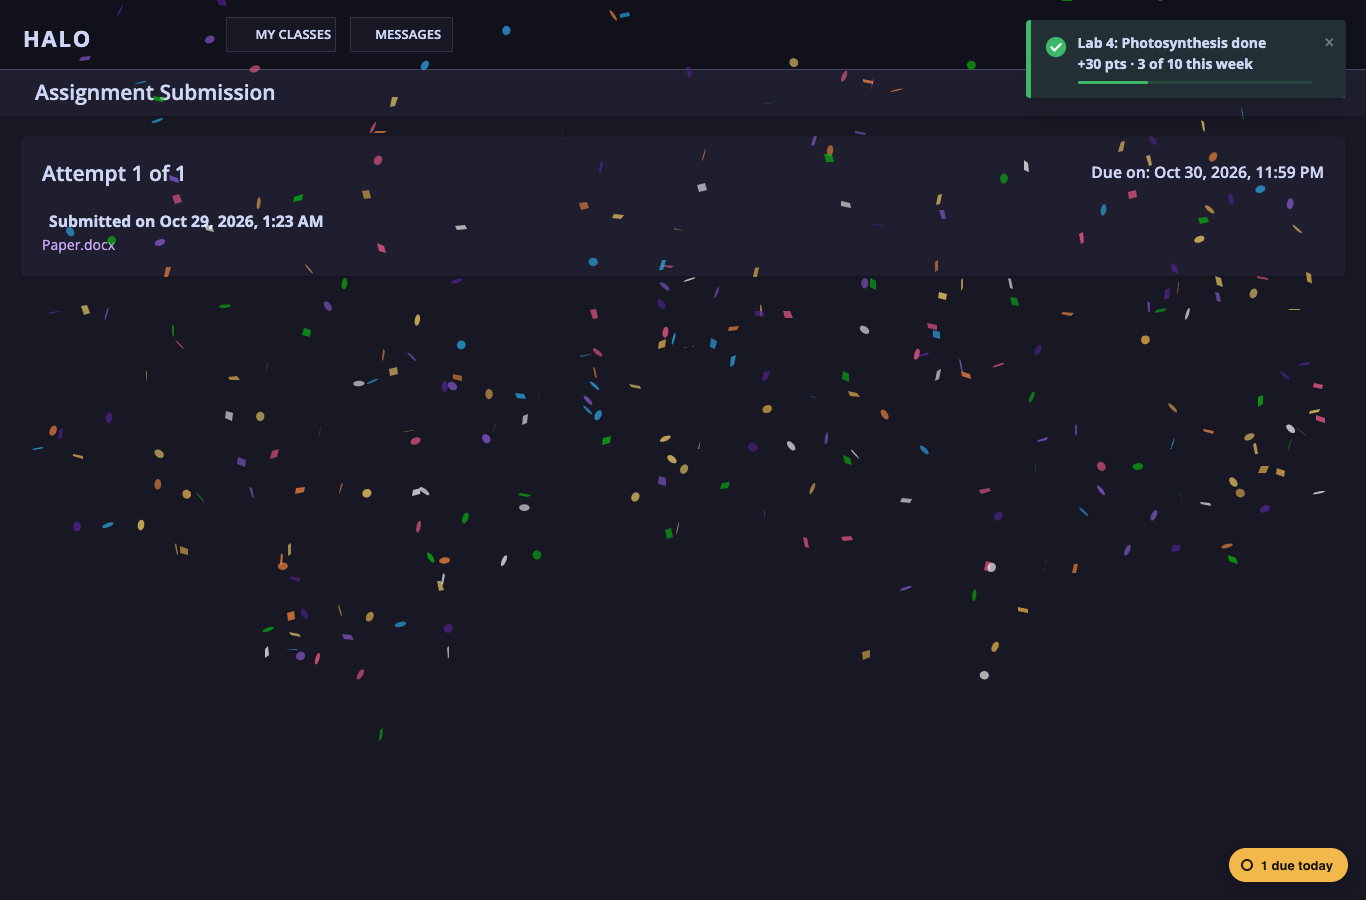
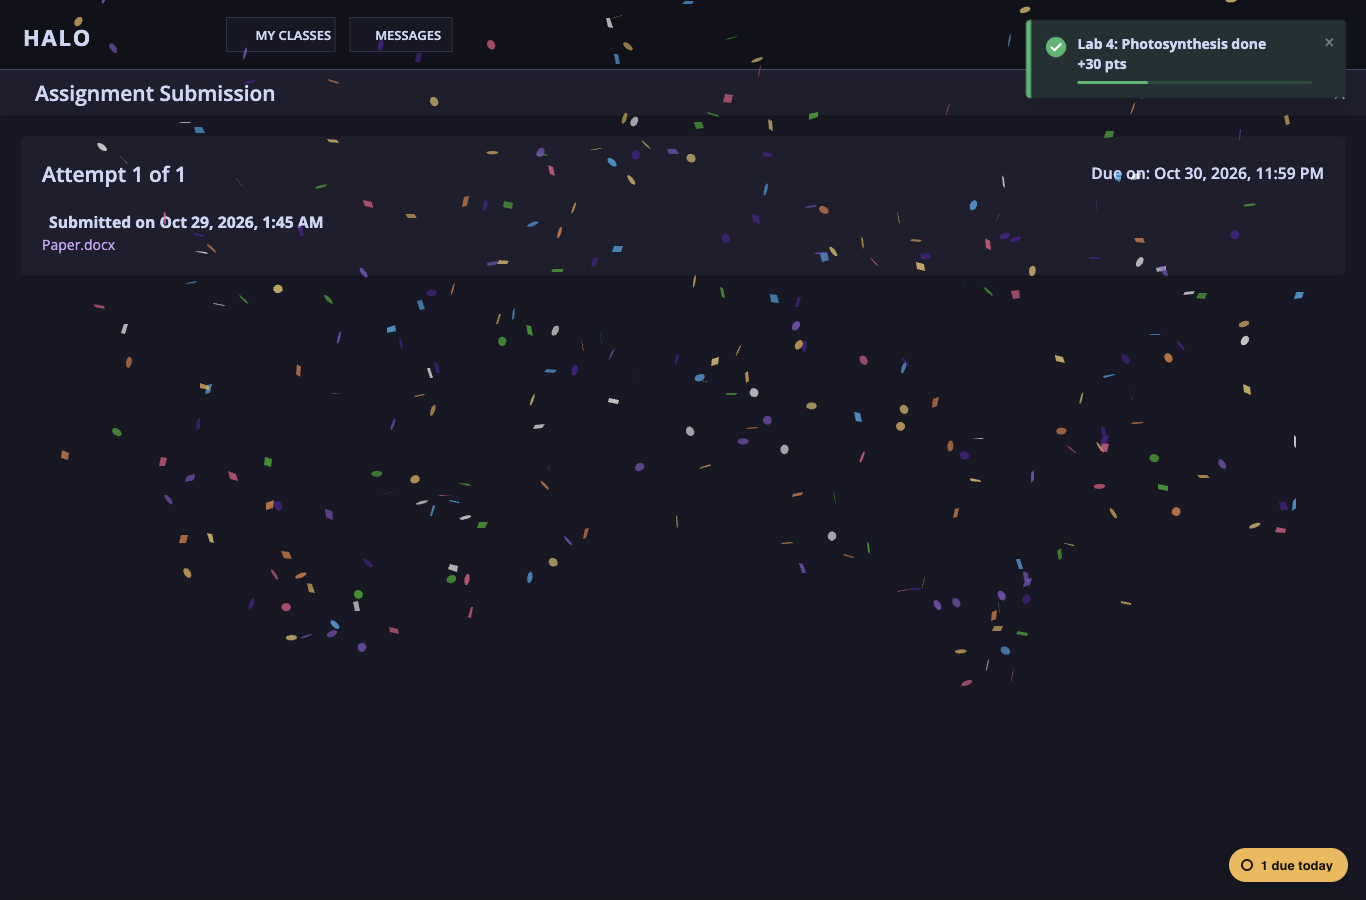
Loop 282: extension 0.12.11 (zip built, not submitted): the submit toast is the item, +30 pts and the week's bar, without the 'N of M this week' words; check-off test passing in Chrome and Edge

diff --git a/extension/celebrate.js b/extension/celebrate.js
@@ -12,8 +12,8 @@
 // 0.12.10 (George on real Halo: the white card and the pill stacked in the corner were "boxy and not like Halo"; "make
 // the celebration BIG"): on Halo, the moment is one toast built the way Halo builds its own (Halo's success toast:
 // its colours from Halo's own variables, its 5 px bar on the left, 4 px corners, shadow, font and size), under Halo's own
-// "Assignment has been submitted." in the same corner: "✓ Lab 4: Photosynthesis done", "+30 pts · 3 of 11 this week",
-// a thin bar inside; short, then it fades. With it, multi-coloured confetti bursting from both sides of the window
+// "Assignment has been submitted." in the same corner: "✓ Lab 4: Photosynthesis done", "+30 pts", a thin bar inside
+// filling to this week's new mark (0.12.11: no words for the week, the bar says it); short, then it fades. With it, multi-coloured confetti bursting from both sides of the window
 // (canvas-confetti, in the extension: vendor/canvas-confetti.js, never fetched), gravity, spin, flutter and drift, about
 // four seconds and gone; a bigger one when the week is done. Never in the way of a click (the layer takes none). The
 // Celebrations switch off, or the computer's "reduce motion": the toast only. Without `opts.toast` (Admin's preview)
@@ -301,8 +301,8 @@
       p.textContent = `+${still ? pts : 0} pts`;
       sub.append(p);
     }
-    const tail = all ? 'Week done' : w ? `${w.done} of ${w.total} this week` : pts ? '' : text || '';
-    if (tail) sub.append(document.createTextNode(`${pts ? ' · ' : ''}${tail}`));
+    // The title, the points and the bar (0.12.11, George: no "3 of 10 this week" words; the bar says it).
+    if (!pts && !w && text) sub.append(document.createTextNode(text));
     m.append(strong, sub);
     if (w) {
       const bar = document.createElement('span');

diff --git a/LOOP_LOG.md b/LOOP_LOG.md
@@ -375,3 +375,4 @@ One line per change, newest last. Proposals that need George's approval are mark
 
 - Loop 281 (2026-10-29): the AI server locked down, deployed and verified live (George, first of his decisions on the pricing report: "Fixed server-built jobs only, input caps, per-user rate limits, and stream mode counted against the budget. Deploy and verify it live"). Before: the AI function sent Anthropic whatever request the browser built, so any Max or trial account could use it as a general chatbot (any instructions, a conversation, its own tools, Anthropic's server tools), stream mode skipped the meter, parallel calls all passed the monthly ceiling, and transcription counted the seconds the browser claimed. Now: (1) a registry of Halo+'s 17 AI jobs (src/ai/jobs.ts: each job's own instructions and its one tool, the constants its code already uses, with its input caps; generated into supabase/functions/_shared/aiJobs.ts by scripts/sync-ai-jobs.ts, run by `npm run build`; src/ai/jobs.test.ts fails when they differ, so a prompt cannot change in the app alone). (2) The AI function checks every request against it and builds the call to the model itself (src/ai/jobRules.ts checkJob, shared with the function): the job's own instructions at their place, word for word, the job's own tool (compared in full) forced, one user message, the student's material in at most the job's number of context blocks, each within its size cap; the call is rebuilt from the server's copy, so nothing else of the browser's goes through (no stream, no other tools, no metadata, no MCP servers, no sampling settings, the output capped per kind). Ask's kinds ('coach', 'tutor') answer 410 "Ask has been retired." (3) Per-student limits per kind, per minute and per day (RATE in jobRules.ts; announcement reading 60 a minute since one post can take three calls and a first sync reads many, the syllabus and links passes a few), and the monthly ceiling, admitted atomically under a lock per student (migration 0047 ai_admit: counts this minute and today, adds the month's spend and the most this call could cost, holds that amount in the usage log; the function writes the real cost into the row after the call, or removes it when the model did not answer). (4) Free's budget $0.05 a month (was $0.10) for its one job, the locked heads-up's check (George: kept on Free with its cap and rate limit, 20 a minute, 100 a day). (5) Transcription counts the audio's own length (the 16 kHz mono 16-bit WAV pieces the app sends, data bytes over 32,000 a second); anything else is refused; the x-seconds header is no longer read.
   Deployed: migration 0047 (supabase db push), functions ai and transcribe. Verified live (scripts/e2e-ai-lockdown.ts, two throwaway accounts, removed after; about a cent of model calls): the app's own brief call works and is logged at its real cost; refused before any model call and with nothing logged: Ask, its own instructions, the job's instructions plus its own, a tool of its own, the job's tool reshaped, web search, a conversation, no forced tool, input over the cap, a job under another kind; stream mode answered as one ordinary JSON answer and counted; 6 calls at once with 3 a minute allowed: exactly 3 answered, 3 told to try again in a minute; no held amount left behind; Free's heads-up check works, a Max job refused (402), and at $0.05 the next check waits (429 ceiling); transcription: non-audio refused (415), 3 seconds said to be 1 counted as 3. scripts/live-check.mjs: every function reachable. Unit 1287, lint, typecheck. The app's other jobs (announcement reading, syllabus passes, practice, lecture notes, Check my work) send exactly the shape the registry holds (built by callTool from the same constants).
+- Loop 282 (2026-10-29): extension 0.12.11 (zip built, NOT submitted): the submit toast without the "3 of 10 this week" words (George: keep the title, "+30 pts" and the progress bar); built as 0.12.11 so no two different 0.12.10 zips exist. Only celebrate.js and the manifest differ from 0.12.10 (zips compared). e2e-onhalo-checkoff 54/54 in Chrome and Edge, without and with Better Halo (the toast's words now exactly "+30 pts"), e2e-halo-presence PASS, unit. Zip: webstore-upload/halo-plus-extension-0.12.11.zip.

diff --git a/docs/webstore/LISTING.md b/docs/webstore/LISTING.md
@@ -1,6 +1,11 @@
 # Chrome Web Store listing kit
 
-## 0.12.10 (2026-10-29): upload this package instead of 0.12.9; everything else as below
+## 0.12.11 (2026-10-29): upload this package instead of 0.12.10; everything else as below
+
+0.12.11 (Loop 282): the submit toast shows the item, "+30 pts" and the week's bar, without the "3 of 10 this week"
+words. Otherwise 0.12.10. **No new permission.** Upload `webstore-upload/halo-plus-extension-0.12.11.zip`.
+
+## 0.12.10 (2026-10-29)
 
 0.12.10 (Loop 280): the submit moment as one Halo-style toast with big confetti (canvas-confetti, bundled in the
 package, no remote code), and a calm loading state on Student Home ("as of" the last saved state when Halo does not
